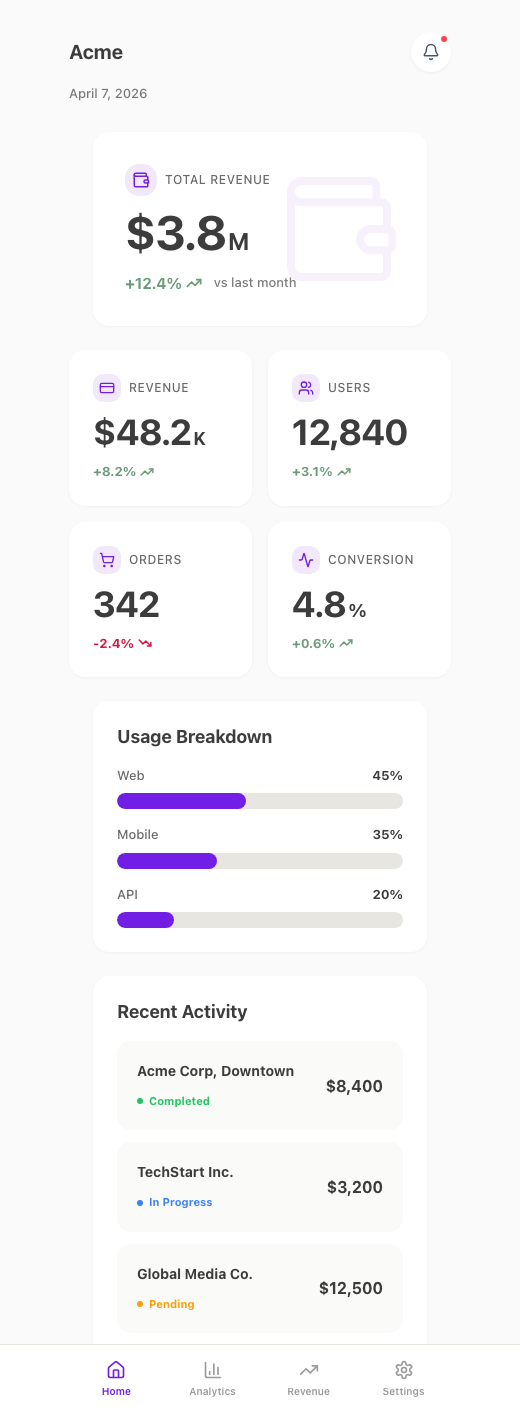
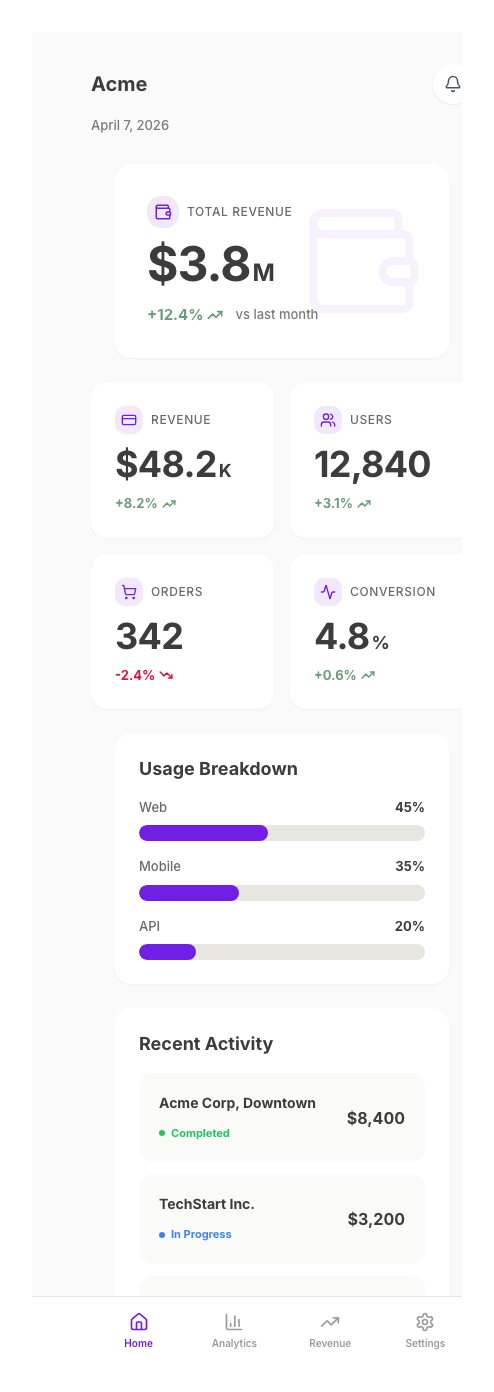
Fix screenshots: exact 430px capture + 32px Pillow padding all sides

diff --git a/README.md b/README.md
@@ -26,7 +26,7 @@ You ask Claude Code to build a dashboard. Without a design system, you get gener
 **With a StyleSeed:**
 
 <div align="center">
-  <img src="showcase/toss-hero-v2.png?v=3" width="280" alt="SaaS dashboard built with StyleSeed Toss seed" />
+  <img src="showcase/toss-hero-v2.png?v=4" width="280" alt="SaaS dashboard built with StyleSeed Toss seed" />
   <br />
   <em>Built with Claude Code + Toss seed. Zero designer involvement.</em>
 </div>
@@ -34,7 +34,7 @@ You ask Claude Code to build a dashboard. Without a design system, you get gener
 <details>
 <summary><strong>See full page screenshot</strong></summary>
 <div align="center">
-  <img src="showcase/toss-full-v2.png?v=3" width="280" alt="Full dashboard" />
+  <img src="showcase/toss-full-v2.png?v=4" width="280" alt="Full dashboard" />
 </div>
 </details>
 
